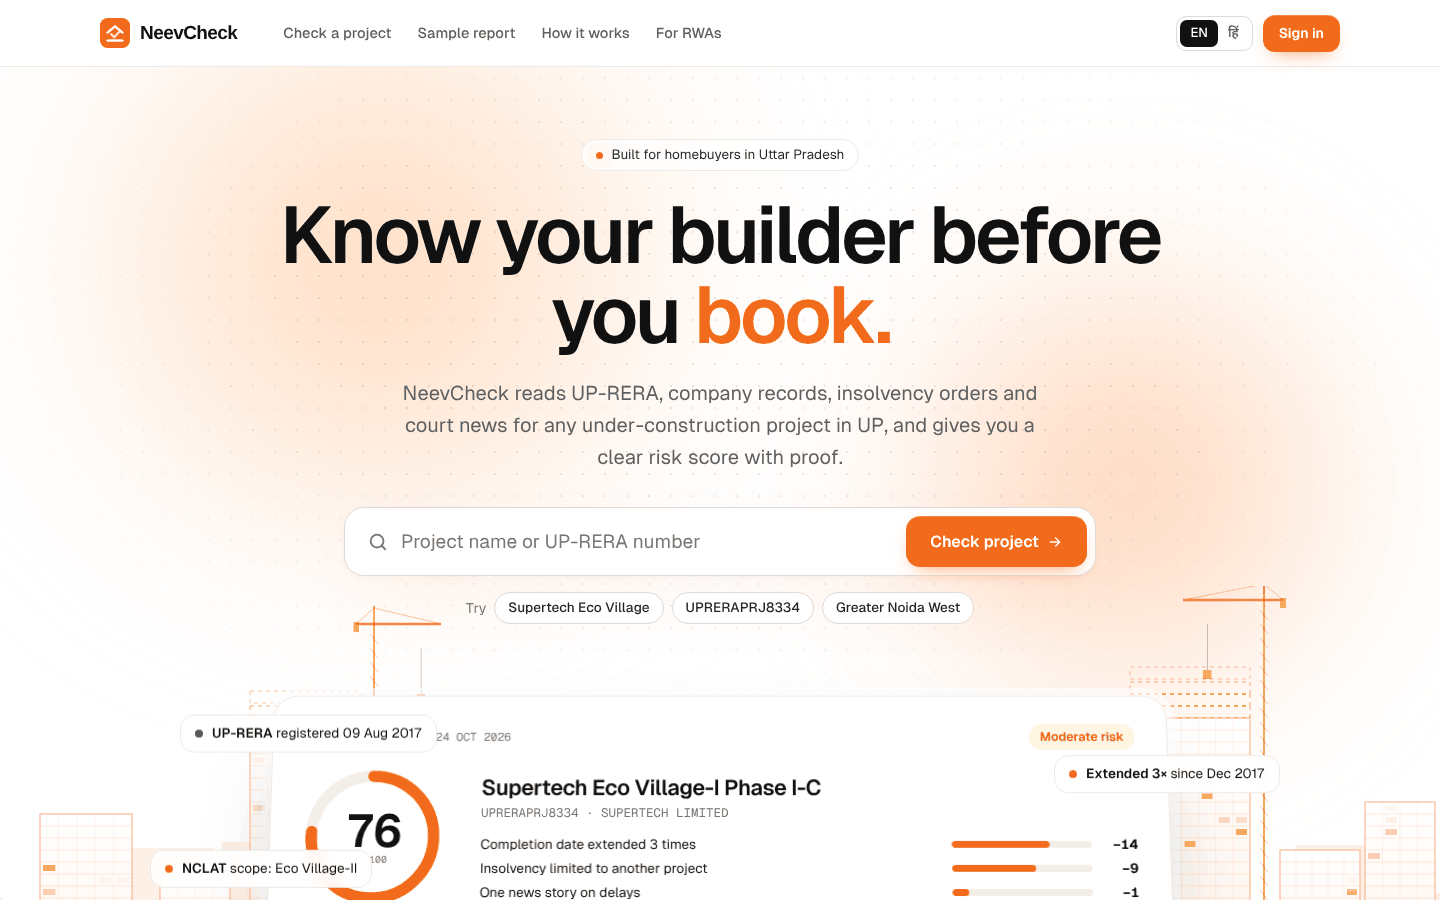
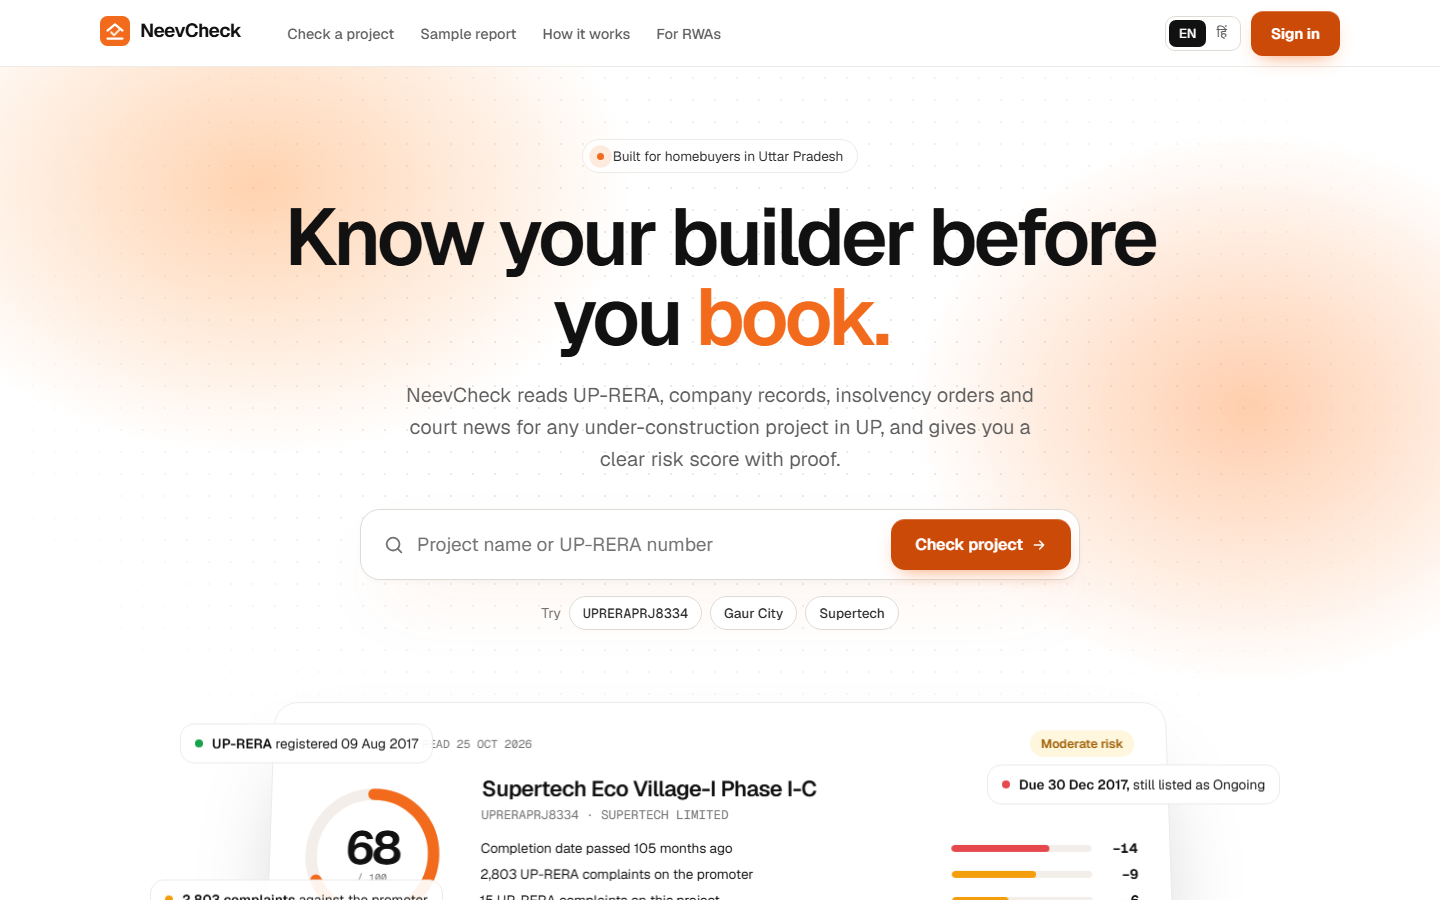
docs: document live sources, tick Phases 2 and 3 and refresh screenshots
The README still showed the prototype's 76 and an extension count that
no public record backs up. The numbers now come from the live check of
25 Oct 2026, and the home images from the running app.

- architecture: sources table, Fetch vs agent, live view events, recording
- data-sources: reliability per source, exact-name and news-only rules
- scoring: worked example from the real check
- README: the real result with a link for every row, roadmap ticks
- home screenshots, phone screenshot and hero.gif captured from the app

Checked every link target against the recorded check.

diff --git a/README.md b/README.md
@@ -18,7 +18,7 @@ A risk check for under-construction homes in Uttar Pradesh. NeevCheck sends **Ti
 
 <br>
 
-<img src="docs/assets/hero.gif" width="860" alt="NeevCheck home page: search bar, a report card scoring Supertech Eco Village-I Phase I-C at 76 out of 100, and an animated construction skyline">
+<img src="docs/assets/hero.gif" width="860" alt="NeevCheck home page: search bar, a report card scoring Supertech Eco Village-I Phase I-C at 68 out of 100, and an animated construction skyline">
 
 </div>
 
@@ -93,29 +93,32 @@ A broker's brochure says *"possession on time"*. The records may say the complet
 
 ## A real check: Supertech Eco Village-I Phase I-C
 
-Every value below comes from a public record. Read on 24 Oct 2026.
+A live check of `UPRERAPRJ8334`, read on 25 Oct 2026. Every value comes from a public record; each row links to where it was read. The check is recorded in [`backend/tests/fixtures/check_8334.json`](backend/tests/fixtures/check_8334.json) and replayed by the tests.
 
 | Record | Value | Source |
 | --- | --- | --- |
 | UP-RERA registration | `UPRERAPRJ8334`, registered 09 Aug 2017 | [UP-RERA](https://www.up-rera.in/Frm_View_Project_Details.aspx?id=8334) |
-| Completion date on record | 30 Dec 2017, extended three times since | UP-RERA project page |
-| Promoter | SUPERTECH LIMITED · 27 projects on UP-RERA | UP-RERA promoter record |
-| Insolvency | NCLT admitted 25 Mar 2022 over **Eco Village-II**; NCLAT limited the process to that project on 10 Jun 2022 | [LiveLaw](https://www.livelaw.in/news-updates/nclat-supertech-insolvency-and-bankruptcy-code-corporate-insolvency-resolution-process-irp-corporate-debtor-201387) |
-| Completion order | Supreme Court upheld NBCC completing 16 stalled Supertech projects, 5 Feb 2026 | [LiveLaw](https://www.livelaw.in/top-stories/supreme-court-upholds-nclat-order-directing-nbcc-to-complete-stalled-supertech-housing-projects-522030) |
-| Consumer cases | Not checked: e-Jagriti shows a CAPTCHA, which we never bypass | [e-Jagriti](https://e-jagriti.gov.in/) |
+| Completion date on record | 30 Dec 2017, 105 months ago; project still listed as Ongoing; no extension orders on the register | UP-RERA project page |
+| Promoter | SUPERTECH LIMITED · 2,803 complaints on UP-RERA across its projects, 15 about this project | UP-RERA project summary |
+| Company status | Active, CIN U74899DL1995PLC074422 | [Economic Times company page](https://economictimes.indiatimes.com/company/supertech-limited/U74899DL1995PLC074422) |
+| Insolvency | NCLT admitted an application on 25 Mar 2022. A news report says the order covers the whole company; no court order was read, so this is **not scored** and needs checking against the NCLT and NCLAT orders | [Fortune India](https://www.fortuneindia.com/enterprise/nclt-declares-supertech-insolvent-whats-the-future-of-25000-homebuyers/107553) |
+| Completion order | Supreme Court order of 5 Feb 2026 names Eco Village-1 among the 16 stalled Supertech projects the NBCC is to complete | [Supreme Court](https://api.sci.gov.in/supremecourt/2025/5007/5007_2025_1_18_68404_Order_05-Feb-2026.pdf) |
+| Consumer cases | 1 case against SUPERTECH LIMITED on the first page of results (NCDRC) | [e-Jagriti](https://e-jagriti.gov.in/advance-case-search) |
+| Land authority dues | Not read: the authorities' dues lists could not be fetched | |
 
-**NeevScore 76 / 100 · Moderate risk**
+**NeevScore 68 / 100 · Moderate risk**
 
 ```text
 100  starting score
--14  completion date extended 3 times          (UP-RERA)
- -9  insolvency limited to another project      (NCLAT order, needs review)
- -1  one news story on delays                   (secondary source)
+-14  completion date passed 105 months ago; still Ongoing   (UP-RERA)
+ -9  2,803 complaints on UP-RERA against the promoter       (UP-RERA)
+ -6  15 complaints on UP-RERA about this project            (UP-RERA)
+ -3  three news stories on delays                           (secondary)
  ──
- 76  Moderate · confidence 71% · no hard stop
+ 68  Moderate · confidence 86% (6 of 7 key checks) · no hard stop
 ```
 
-**What the buyer should do next:** check whether this phase is on NBCC's list of 16 projects, read the NCLAT order, get the current possession date in writing and search e-Jagriti for consumer cases.
+**What the buyer should do next:** read the NCLT and NCLAT orders on the insolvency, ask the builder for the current possession date in writing, check whether this phase is on NBCC's list of 16 projects, and ask the Greater Noida authority for the project's dues position.
 
 ## How it works
 
@@ -210,7 +213,7 @@ Full method and test cases: [`docs/scoring.md`](docs/scoring.md).
 
 ```text
 .
-├── backend/                 FastAPI service (added in Phase 1)
+├── backend/                 FastAPI service
 │   ├── app/
 │   │   ├── api/             routes: search, checks, events (SSE), reports
 │   │   ├── sources/         one module per public source, plus the shared agent runner
@@ -222,7 +225,7 @@ Full method and test cases: [`docs/scoring.md`](docs/scoring.md).
 │   │   └── main.py
 │   ├── scripts/             capture_fixtures.py records real responses for tests
 │   └── tests/               pytest, with recorded TinyFish responses in fixtures/
-├── frontend/                Next.js app (added in Phase 3)
+├── frontend/                Next.js app (home page so far)
 │   └── src/
 │       ├── app/             routes: home, check/[id], report/[id]
 │       ├── components/      Skyline, AgentCam, ScoreRing, EvidenceList …
@@ -233,7 +236,7 @@ Full method and test cases: [`docs/scoring.md`](docs/scoring.md).
 
 ## Getting started
 
-> The app is being rebuilt in phases on the final design. The backend works from **v0.1** (end of Phase 1); the frontend arrives in Phase 3. Every check is live, so you need a [TinyFish API key](https://agent.tinyfish.ai/api-keys).
+> The app is being rebuilt in phases on the final design. The backend runs live checks from **v0.2** (end of Phase 2); the frontend has its home page from Phase 3, and the check flow follows in Phase 4. Every check is live, so you need a [TinyFish API key](https://agent.tinyfish.ai/api-keys).
 
 ```bash
 git clone https://github.com/Nitinmittal373/HACKATHON_IIIT-DELHI_2026.git neevcheck
@@ -270,8 +273,8 @@ The full API is described in [`docs/architecture.md`](docs/architecture.md#api).
 
 - [x] **Phase 0 · Foundation** — repo structure, CI, security policy, contribution guide, final design approved
 - [x] **Phase 1 · Backend core** — API, data models, NeevScore engine, live UP-RERA source, event stream, shared agent runner
-- [ ] **Phase 2 · TinyFish agents** — five source agents, live view streaming, CAPTCHA handling
-- [ ] **Phase 3 · Frontend foundation** — design tokens, layout, animated skyline, home page
+- [x] **Phase 2 · TinyFish agents** — five source agents, live view streaming, CAPTCHA handling
+- [x] **Phase 3 · Frontend foundation** — design tokens, layout, animated skyline, home page
 - [ ] **Phase 4 · Check flow** — search, confirm, Agent Cam, report
 - [ ] **Phase 5 · Sentinel and sharing** — weekly re-checks, alerts, PDF, Hindi
 - [ ] **Phase 6 · Launch** — accessibility, end-to-end tests, deployment, v1.0

diff --git a/docs/architecture.md b/docs/architecture.md
@@ -50,22 +50,37 @@ Each source is one small module with the same shape: it reads one kind of public
 
 | Source | Site | How it reads | Extracts |
 | --- | --- | --- | --- |
-| `uprera` | up-rera.in | TinyFish **Fetch** + deterministic Python parser; the summary page is found with Search | name, number, registration date, promoter, type, district, start and end dates, extensions granted, completion certificate date, permits, documents, complaint counts |
-| `registry` | zaubacorp.com / mca.gov.in | TinyFish agent *(Phase 2)* | company status, CIN |
-| `insolvency` | NCLT / NCLAT orders, IBBI | Search + agent *(Phase 2)* | admitted cases and which projects they cover |
-| `land` | Noida, Greater Noida, YEIDA | agent *(Phase 2)* | dues or defaulter entries |
-| `consumer` | e-Jagriti | agent *(Phase 2)*, usually stops at a CAPTCHA | cases against the promoter |
-| `news` | news sites | Search (news) *(Phase 2)* | up to three delay stories, secondary |
+| `uprera` | up-rera.in | **Fetch** + deterministic Python parser; the summary page is found with Search | name, number, registration date, promoter, type, district, start and end dates, extensions granted, completion certificate date, permits, documents, complaint counts |
+| `registry` | MCA, Economic Times, zaubacorp | Search finds the page; **Fetch** + parser reads the details table, an **agent** reads it when Fetch cannot | company name, CIN and status |
+| `insolvency` | NCLT / NCLAT orders and reports, IBBI | Search finds a page about the promoter's case; an **agent** reads it | whether the case was admitted, when, and which projects it covers |
+| `land` | Noida, Greater Noida and Yamuna Expressway authorities | Search + **Fetch** of the published dues list (usually a PDF), searched in Python | whether the promoter is on a dues list |
+| `consumer` | e-Jagriti | an **agent** opens the case search and stops at its CAPTCHA | cases against the promoter, when the portal lets it through |
+| `news` | news sites, Supreme Court | Search (news) and Fetch of a court order | up to three delay stories, and whether the NBCC order names the project |
 
 UP-RERA runs first: it confirms the project exists and names the promoter the other sources look for. If it cannot be read, the check fails and no score is shown. The other sources run in parallel, at most `AGENT_CONCURRENCY` at a time, each within `AGENT_TIMEOUT_SECONDS`.
 
-Agent sources share one runner (`app/sources/agent.py`). It streams the live browser URL to the Agent Cam, tells every agent never to solve or get around a CAPTCHA, and marks the source `blocked` when one appears. A run that fails, times out or returns only empty fields leaves the source **unread**, which lowers confidence and never changes the score. Agents are opened on deep pages, never on a large homepage.
+### Fetch or agent?
 
-UP-RERA pages are fetched with CSS selectors for only the sections the parser uses, so bank details and phone numbers on the page are never stored.
+Fetch and Search are cheap, fast and repeatable, so a page that Fetch can turn into text is read in Python. An agent (a real browser driven by a goal in plain English) is only used where a person would have to click: a search form, a page that renders in the browser, an article whose scope has to be read. Each agent source is a module with a `GOAL`, an `OUTPUT_SCHEMA` and a pure `to_findings()` that turns the agent's JSON into findings. Python, not the agent, decides what the facts mean: for example, whether an insolvency covers this project is decided by matching project names word for word, so Eco Village-I is never matched to Eco Village-II.
+
+### Live view and progress
+
+Agent sources share one runner (`app/sources/agent.py`). It maps the agent's stream onto the event stream the Agent Cam reads:
+
+| TinyFish event | NeevCheck event |
+| --- | --- |
+| started | `source.started` (sent by the orchestrator when the source begins) |
+| streaming URL | `source.live_url`, the address of the live browser view |
+| progress | `source.progress`, the agent's note cut to one line of at most 140 characters |
+| complete | `finding.added` for each finding, then `source.completed` |
+
+The runner tells every agent never to solve or get around a CAPTCHA, and marks the source `blocked` when one appears. A run that fails or returns only empty fields leaves the source **unread**, which lowers confidence and never changes the score. A run that runs out of time is `blocked` with the reason `timeout` and is not retried. Agents are opened on deep pages, never on a large homepage, and every run is capped by `AGENT_TIMEOUT_SECONDS`. The raw answer of each agent is saved under `backend/data/cache/{check_id}/{source}.json` (git-ignored) so a surprising finding can be traced back to what the agent returned.
+
+At most `AGENT_CONCURRENCY` (2) agents run at once. TinyFish accepts a step limit only on beta accounts; set `AGENT_SEND_MAX_STEPS=true` once yours is enabled.
 
 ## Testing without the network
 
-Tests never call TinyFish. `scripts/capture_fixtures.py` records real responses (UP-RERA pages, search results) into `backend/tests/fixtures/` through the same client and selectors the app uses, and refuses to save a file that contains the API key. Tests replay them through a fake `WebClient`. One optional test, `pytest -m live`, runs a real check when `TINYFISH_API_KEY` is set; it is deselected by default and skipped in CI.
+Tests never call TinyFish. `scripts/capture_fixtures.py` records real responses (UP-RERA pages, search results) into `backend/tests/fixtures/` through the same client and selectors the app uses, and refuses to save a file that contains the API key. `python -m scripts.capture_fixtures check_8334.json` runs one complete live check of `UPRERAPRJ8334` and records every search, document and agent answer, scrubbed of emails, phone numbers and live-view addresses. Tests replay them through a fake `WebClient`, with the clock fixed to the day of the recording, so the score is stable. One optional test, `pytest -m live`, runs a real check when `TINYFISH_API_KEY` is set; it is deselected by default and skipped in CI.
 
 ## API
 

diff --git a/docs/data-sources.md b/docs/data-sources.md
@@ -5,18 +5,21 @@ NeevCheck reads only public records. Each source has a reliability level that de
 | Source | Site | What we read | Reliability |
 | --- | --- | --- | --- |
 | UP-RERA | [up-rera.in](https://www.up-rera.in) | Registration, promoter, completion date, extensions granted, completion certificate, documents, complaint counts | Primary |
-| Company registry | [mca.gov.in](https://www.mca.gov.in), [zaubacorp.com](https://www.zaubacorp.com) | Company status, CIN | Primary (mirrors such as zaubacorp are secondary) |
-| Insolvency | [ibbi.gov.in](https://ibbi.gov.in), NCLT / NCLAT orders | Admitted cases and their scope | Primary |
-| Land authorities | Noida, Greater Noida, YEIDA | Published dues and defaulter lists | Primary |
-| Consumer cases | [e-Jagriti](https://e-jagriti.gov.in) | Cases against the promoter | Primary, often behind a CAPTCHA |
-| Courts and news | Court reporting and news sites | Orders, rulings, delay coverage | Secondary |
+| Company registry | [mca.gov.in](https://www.mca.gov.in), [Economic Times](https://economictimes.indiatimes.com), [zaubacorp.com](https://www.zaubacorp.com) | Company name, CIN, status | Primary on MCA; the mirrors are secondary |
+| Insolvency | NCLT / NCLAT orders, [ibbi.gov.in](https://ibbi.gov.in), news reports of the case | Whether a case was admitted, when, and which projects it covers | Primary on official sites; news reports are secondary |
+| Land authorities | Noida, Greater Noida (GNIDA), YEIDA | Published dues and defaulter lists | Primary |
+| Consumer cases | [e-Jagriti](https://e-jagriti.gov.in) | Cases against the promoter | Primary, behind a CAPTCHA |
+| Courts and news | Supreme Court orders, court reporting, news sites | The NBCC order and delay coverage | Orders are primary; reports and news are secondary |
 
 ## How we read them
 
 - **UP-RERA** pages are read with **TinyFish Fetch** and parsed by deterministic Python code, so the same page always gives the same fields. Only the sections we use are requested, so the bank details and phone numbers on the page are never stored.
-- For the other sources a **TinyFish browser agent** opens a deep page on the site, searches for the project or promoter and returns the exact fields we ask for as structured JSON.
+- For the other sources a **TinyFish browser agent** opens a deep page on the site, searches for the project or promoter and returns the exact fields we ask for as structured JSON. Where **Fetch** can read the page (a company details table, a PDF list, a court order) Python reads it instead, which is free and gives the same answer every time.
+- A page is used for a company only if it carries the promoter's **exact legal name**: "Supertech Limited" is not "Supertech Realtors Limited". A project is matched word for word, so Eco Village-I is never matched to Eco Village-II.
+- A **news report alone never causes a hard stop**. If it says an insolvency covers the whole company or this project, the finding is shown for review with 0 points until a court order is read.
 - Every finding is saved with the **source URL**, the **time it was read** and its **reliability**.
-- If a site shows a **CAPTCHA**, the agent stops. The source is marked *Unable to verify* and the report tells the buyer how to check it themselves.
+- If a site shows a **CAPTCHA**, the agent stops and is never retried. The source is marked *Unable to verify* and the report tells the buyer how to check it themselves. e-Jagriti and zaubacorp both do this today.
+- A list that is not published or cannot be read (the land authorities' dues lists, on the day of the recorded check) leaves its check **unread**: absence of a record never adds points.
 - We respect each site's rate limits and run at most `AGENT_CONCURRENCY` agents at once.
 
 ## What we never do

diff --git a/docs/scoring.md b/docs/scoring.md
@@ -87,24 +87,16 @@ A hard stop is always Critical, however little else was read: one verified serio
 
 ## Worked example
 
-Supertech Eco Village-I Phase I-C (`UPRERAPRJ8334`) with every source read, as recorded on 24 Oct 2026. The same numbers are a test in `backend/tests/test_scoring.py`.
-
-| Finding | Area | Penalty | Points |
-| --- | --- | --: | --: |
-| Completion date extended 3 times | Project execution (20%) | 70 | −14 |
-| Insolvency limited to another project | Financial and insolvency (15%) | 60 | −9 |
-| One news story on delays | News (10%) | 10 | −1 |
-| **NeevScore** | | | **76 · Moderate** |
-
-Confidence is 71% (5 of 7 checks) because consumer cases (e-Jagriti, CAPTCHA) and the completion date could not be read.
-
-Until the Phase 2 agents land, a live check reads UP-RERA only. On 25 Oct 2026 that gave:
+Supertech Eco Village-I Phase I-C (`UPRERAPRJ8334`), checked live on 25 Oct 2026. Every source was read except the land authority lists. The same numbers are a test in `backend/tests/test_recorded_check.py`, replayed from the recording.
 
 | Finding | Area | Penalty | Points |
 | --- | --- | --: | --: |
 | Completion date on record (30 Dec 2017) passed 105 months ago; project still listed as Ongoing | Project execution (20%) | 70 | −14 |
 | 2,803 complaints on UP-RERA against the promoter | Builder history (15%) | 60 | −9 |
 | 15 complaints on UP-RERA about this project | Legal and courts (15%) | 40 | −6 |
-| **NeevScore** | | | **71 · Not enough evidence yet** |
+| Three news stories on delays (10 each, secondary) | News (10%) | 30 | −3 |
+| **NeevScore** | | | **68 · Moderate** |
 
-Confidence is 29% (registration and completion date, 2 of 7 checks), so the score is provisional and gets no band until the other sources are read.
+Shown with no points: registration (ok), company status (Active), the insolvency admission of 25 Mar 2022, a news report that the insolvency covers the whole company (**unverified**: no court order was read, so it cannot cap the score), one consumer case on e-Jagriti, and the Supreme Court's NBCC order (context).
+
+Confidence is 86% (6 of 7 checks): land dues were not read because the authorities' lists could not be fetched. If a CAPTCHA had stopped e-Jagriti, confidence would be 71% and the score would stay 68.
